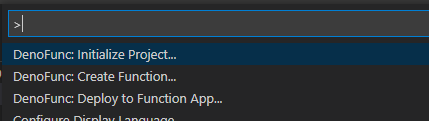
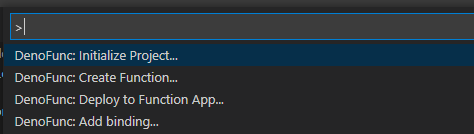
Update README.md

Changed region(s): [[0.0, 0.0744, 1.0, 0.6694], [0.0, 0.6942, 0.5152, 1.0]]

diff --git a/README.md b/README.md
@@ -8,7 +8,7 @@ This extension adds the following commands to VS code.
   - Initialize your folder as `denofunc` project, equivalent to typing `denofunc init` in a terminal
   - Create functions to your project based on [templates](https://github.com/horihiro/vscode-denofunc/blob/main/src/templates/index.ts) included in this extension
   - Deploy your project to Azure Functions, equivalent to typing `denofunc publish` in a terminal
-
+  - (Experimental) Add bindings to your function.<br>
 ![commands](resources/commands.png)
 
 ## Requirements
